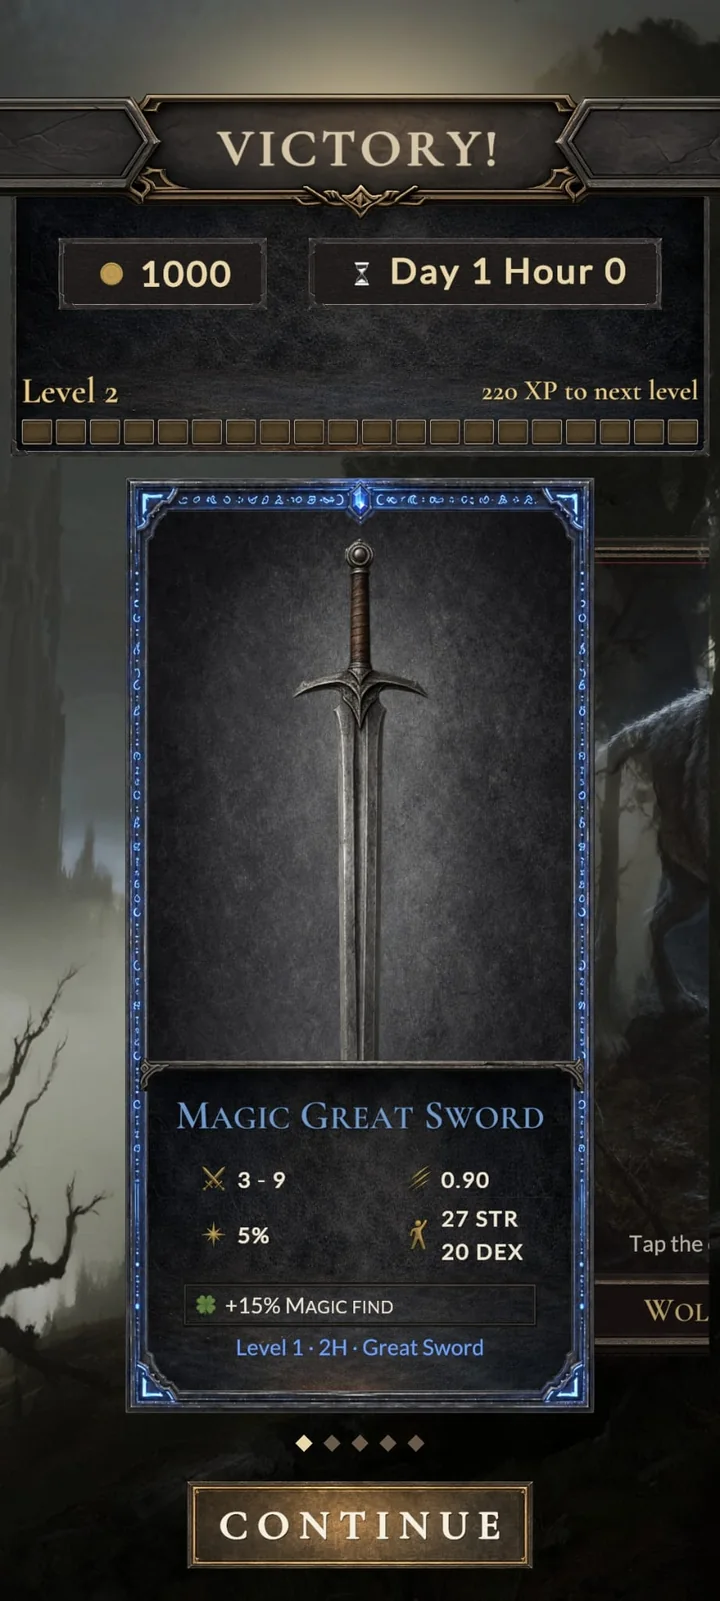
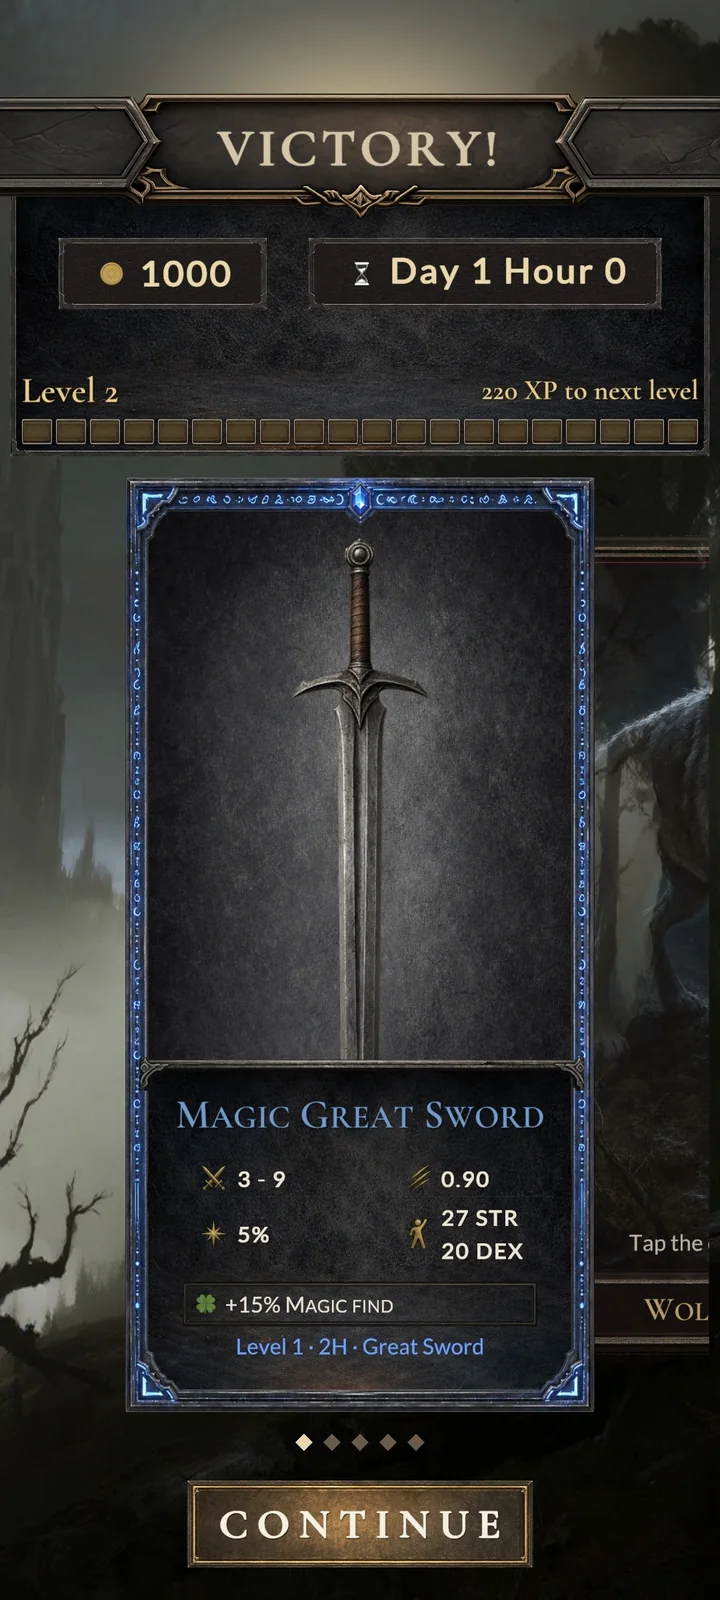
feat(site): the captures at the resolution the phone actually shot
The first set came through WhatsApp, which had quietly resized 1080x2400 down to
921x2048 and compressed it again. It showed in the store. These are the same
moments straight off the device.

Claude-Session: https://claude.ai/code/session_01F88rgKE8tpmojR5v2Xemez

diff --git a/index.html b/index.html
@@ -97,9 +97,9 @@
             waiting a long time.</p>
         </div>
         <div class="shots">
-            <img src="/assets/img/shot-map.webp" alt="The world map at the edge of the forest, its fields waiting to be claimed" width="720" height="1601" loading="lazy">
-            <img src="/assets/img/shot-prep.webp" alt="A boar barring the Whispering Path, and the rewards for taking it" width="720" height="1601" loading="lazy">
-            <img src="/assets/img/shot-whispers.webp" alt="Deep forest, where leaves rustle without wind" width="720" height="1601" loading="lazy">
+            <img src="/assets/img/shot-map.webp" alt="The world map at the edge of the forest, its fields waiting to be claimed" width="720" height="1600" loading="lazy">
+            <img src="/assets/img/shot-prep.webp" alt="A boar barring the Whispering Path, and the rewards for taking it" width="720" height="1600" loading="lazy">
+            <img src="/assets/img/shot-whispers.webp" alt="Deep forest, where leaves rustle without wind" width="720" height="1600" loading="lazy">
         </div>
     </div>
 </section>
@@ -128,9 +128,9 @@
         </div>
     </div>
     <div class="shots">
-        <img src="/assets/img/shot-combat.webp" alt="A fight in progress: the enemy line above, the combat log reading out every tick" width="720" height="1601" loading="lazy">
-        <img src="/assets/img/shot-wheel.webp" alt="The skill wheel, with Flaming Strike unlocked" width="720" height="1601" loading="lazy">
-        <img src="/assets/img/shot-victory.webp" alt="Victory, and a magic great sword revealed" width="720" height="1601" loading="lazy">
+        <img src="/assets/img/shot-combat.webp" alt="A fight in progress: the enemy line above, the combat log reading out every tick" width="720" height="1600" loading="lazy">
+        <img src="/assets/img/shot-wheel.webp" alt="The skill wheel, with Flaming Strike unlocked" width="720" height="1600" loading="lazy">
+        <img src="/assets/img/shot-victory.webp" alt="Victory, and a magic great sword revealed" width="720" height="1600" loading="lazy">
     </div>
 
     <div class="prose" style="margin-top:2.5rem">
